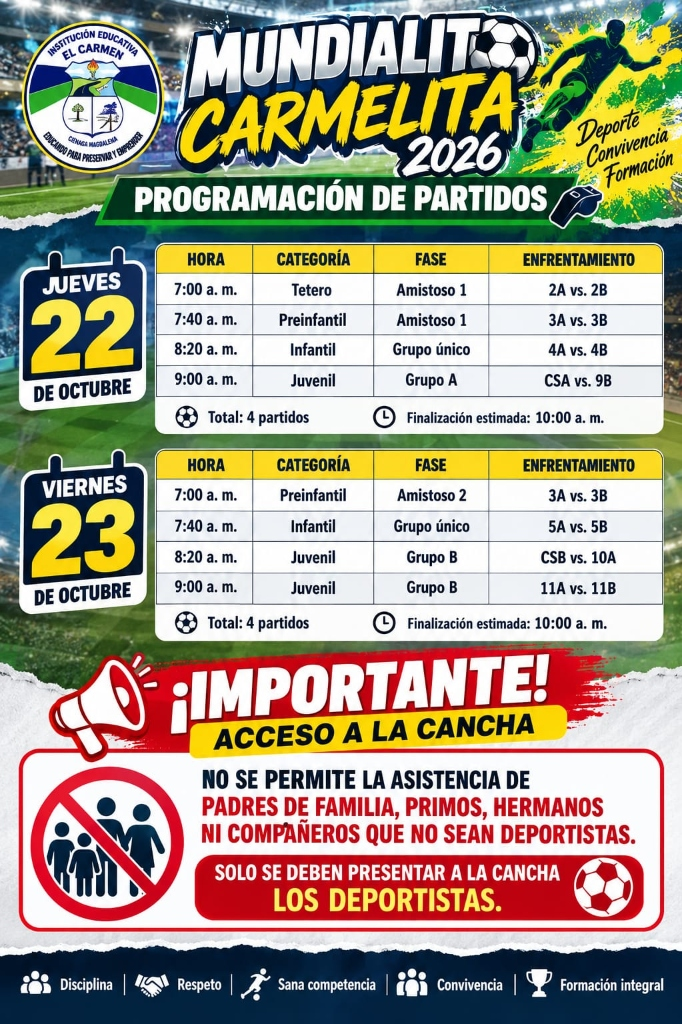
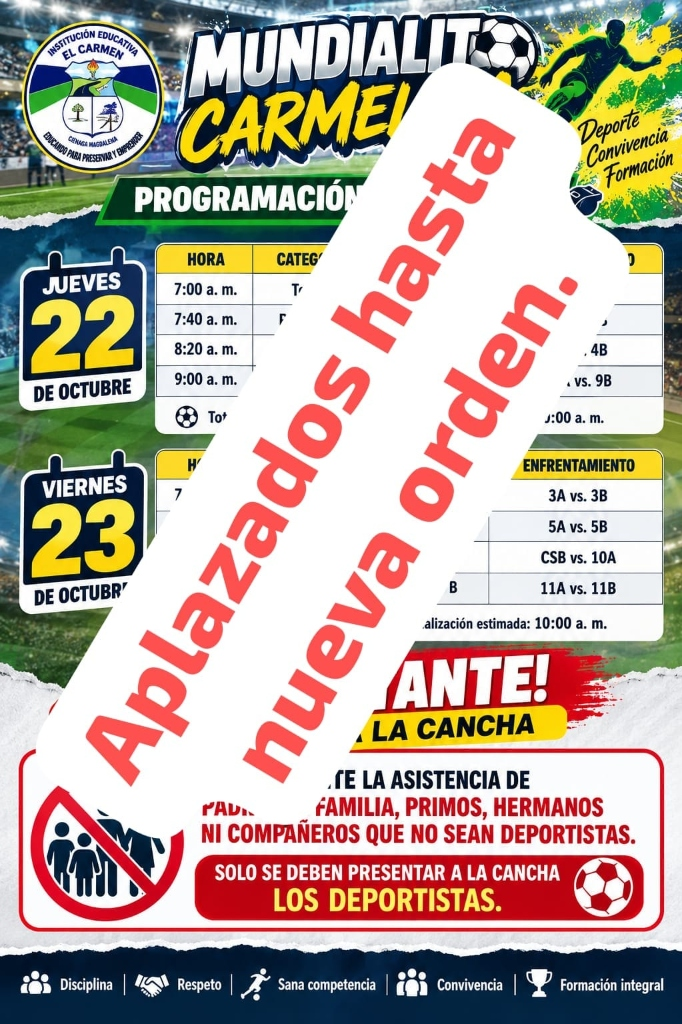
feat(sports): postpone mundialito matches notice in laboratory

Changed region(s): [[0.0616, 0.0625, 0.9238, 0.8438]]

diff --git a/laboratorio/index.html b/laboratorio/index.html
@@ -3312,122 +3312,93 @@
           </div>
         </div>
 
-        <!-- Tarjeta Oficial: Programación de Partidos y Acceso a la Cancha - Mundialito Carmelista 2026 -->
+        <!-- Tarjeta Oficial: Partidos Aplazados hasta Nueva Orden - Mundialito Carmelista 2026 -->
         <div class="notice-banner-card sports" id="aviso-partidos-mundialito-2026"
-          style="grid-column: 1 / -1; margin-top: 1.5rem; background: linear-gradient(135deg, #ffffff 0%, #f0fdf4 40%, #eff6ff 100%); border: 2px solid #0284c7; border-radius: var(--radius-lg); padding: clamp(1.5rem, 3vw, 2.5rem); box-shadow: var(--shadow-md);">
+          style="grid-column: 1 / -1; margin-top: 1.5rem; background: linear-gradient(135deg, #ffffff 0%, #fff1f2 40%, #fef2f2 100%); border: 2px solid #ef4444; border-radius: var(--radius-lg); padding: clamp(1.5rem, 3vw, 2.5rem); box-shadow: 0 10px 30px rgba(239, 68, 68, 0.15);">
           <div style="display: flex; align-items: center; justify-content: space-between; flex-wrap: wrap; gap: 0.75rem; margin-bottom: 0.75rem;">
-            <span class="notice-header-badge" style="background: rgba(2, 132, 199, 0.12); color: #0284c7; border: 1px solid #bae6fd; font-weight: 800; font-size: 0.82rem; padding: 0.35rem 0.85rem; border-radius: var(--radius-full); display: inline-flex; align-items: center; gap: 0.5rem;">
-              <span class="pulse-dot" style="background: #0284c7;"></span> ⚽ MUNDIALITO CARMELISTA 2026 · PROGRAMACIÓN OFICIAL DE PARTIDOS
+            <span class="notice-header-badge" style="background: rgba(239, 68, 68, 0.12); color: #b91c1c; border: 1px solid #fecaca; font-weight: 800; font-size: 0.82rem; padding: 0.35rem 0.85rem; border-radius: var(--radius-full); display: inline-flex; align-items: center; gap: 0.5rem;">
+              <span class="pulse-dot" style="background: #dc2626;"></span> 🔴 COMUNICADO EXTRAORDINARIO · PARTIDOS APLAZADOS HASTA NUEVA ORDEN
             </span>
-            <span style="font-size: 0.82rem; font-weight: 700; color: #b45309; background: #fef3c7; border: 1px solid #fde68a; padding: 0.3rem 0.8rem; border-radius: var(--radius-full);">
-              📅 Jueves 22 y Viernes 23 de Octubre · 7:00 a.m. a 10:00 a.m.
+            <span style="font-size: 0.82rem; font-weight: 800; color: #991b1b; background: #fee2e2; border: 1px solid #fca5a5; padding: 0.3rem 0.8rem; border-radius: var(--radius-full);">
+              ⚠ SUSPENDIDA FECHA DE JUEVES 22 Y VIERNES 23 · Reprogramación Pendiente
             </span>
           </div>
 
-          <h3 class="notice-title" style="font-size: clamp(1.4rem, 2.6vw, 2rem); color: var(--primary); margin-bottom: 0.6rem;">
-            Programación de Partidos &amp; Directriz de Acceso a la Cancha
+          <h3 class="notice-title" style="font-size: clamp(1.4rem, 2.6vw, 2rem); color: #991b1b; margin-bottom: 0.6rem;">
+            Mundialito Carmelista 2026: Partidos Aplazados hasta Nueva Orden
           </h3>
-          <p class="notice-lead" style="color: var(--text-muted); font-size: 1rem; line-height: 1.6; margin-bottom: 1.5rem;">
-            Conoce los enfrentamientos oficiales de las categorías <strong>Tetero, Preinfantil, Infantil y Juvenil</strong> para las jornadas del jueves y viernes. Recordamos a toda la comunidad educativa la directriz estricta de seguridad y sana convivencia para el ingreso al escenario deportivo.
+          <p class="notice-lead" style="color: #4b5563; font-size: 1rem; line-height: 1.6; margin-bottom: 1.5rem;">
+            Por disposición del comité organizador y las directivas institucionales de la <strong>IE El Carmen</strong>, la programación de partidos inicialmente prevista para este <strong>jueves 22 y viernes 23 de octubre</strong> queda <strong>aplazada hasta nueva orden</strong>. Oportunamente se notificará a través de los canales institucionales el nuevo cronograma oficial para el reinicio de los encuentros deportivos.
           </p>
 
           <div class="notice-grid" style="display: grid; grid-template-columns: repeat(auto-fit, minmax(320px, 1fr)); gap: 2rem; align-items: start;">
-            <!-- Columna Izquierda: Cartel Oficial del Aviso -->
+            <!-- Columna Izquierda: Cartel Oficial con la marca de Aplazados -->
             <div class="notice-flyer-col">
-              <div class="notice-flyer-frame" style="background: #0f172a; border-radius: var(--radius-md); overflow: hidden; box-shadow: 0 10px 25px rgba(2, 132, 199, 0.2); border: 2px solid #bae6fd;">
-                <a href="aviso_partidos_mundialito.jpg" target="_blank" title="Clic para ver afiche oficial en alta resolución">
-                  <img src="aviso_partidos_mundialito.jpg" alt="Aviso Oficial: Programación de Partidos Mundialito Carmelita 2026 y Acceso a la Cancha" loading="lazy" style="width: 100%; height: auto; display: block;">
+              <div class="notice-flyer-frame" style="background: #0f172a; border-radius: var(--radius-md); overflow: hidden; box-shadow: 0 10px 25px rgba(220, 38, 38, 0.25); border: 2px solid #f87171;">
+                <a href="aviso_partidos_mundialito.jpg" target="_blank" title="Clic para ver aviso oficial de aplazamiento en alta resolución">
+                  <img src="aviso_partidos_mundialito.jpg" alt="Aviso Oficial: Partidos del Mundialito Carmelita 2026 Aplazados hasta Nueva Orden" loading="lazy" style="width: 100%; height: auto; display: block;">
                 </a>
               </div>
               <div style="display: flex; gap: 0.6rem; flex-wrap: wrap; margin-top: 0.75rem;">
                 <a href="aviso_partidos_mundialito.jpg" target="_blank" class="btn-primary"
-                  style="flex: 1; min-width: 140px; font-size: 0.85rem; padding: 0.65rem 0.9rem; text-align: center; justify-content: center; gap: 0.4rem; background: var(--accent-blue);">
-                  🔍 Ver Imagen Completa
+                  style="flex: 1; min-width: 140px; font-size: 0.85rem; padding: 0.65rem 0.9rem; text-align: center; justify-content: center; gap: 0.4rem; background: #dc2626;">
+                  🔍 Ver Afiche con Aviso
                 </a>
-                <a href="aviso_partidos_mundialito.jpg" download="Programacion_Partidos_Mundialito_Carmelita_2026.jpg" class="btn-secondary"
-                  style="flex: 1; min-width: 140px; font-size: 0.85rem; padding: 0.65rem 0.9rem; text-align: center; justify-content: center; gap: 0.4rem; border-color: var(--accent-blue); color: #0284c7;">
-                  📥 Descargar Afiche
+                <a href="aviso_partidos_mundialito.jpg" download="Aviso_Aplazamiento_Partidos_Mundialito_2026.jpg" class="btn-secondary"
+                  style="flex: 1; min-width: 140px; font-size: 0.85rem; padding: 0.65rem 0.9rem; text-align: center; justify-content: center; gap: 0.4rem; border-color: #dc2626; color: #b91c1c;">
+                  📥 Descargar Aviso
                 </a>
               </div>
-              <p style="font-size: 0.78rem; color: var(--text-muted); text-align: center; margin-top: 0.5rem;">
-                📲 Descarga y comparte este comunicado oficial en los grupos de WhatsApp de acudientes y grados escolares.
+              <p style="font-size: 0.78rem; color: #6b7280; text-align: center; margin-top: 0.5rem;">
+                📲 Comparte de forma urgente este comunicado en los grupos de WhatsApp de acudientes, docentes y estudiantes.
               </p>
             </div>
 
-            <!-- Columna Derecha: Alerta de Acceso y Detalle de Partidos -->
+            <!-- Columna Derecha: Alertas y Estado de la Programación -->
             <div style="display: flex; flex-direction: column; gap: 1.25rem;">
-              <!-- Alerta Roja: Restricción de Acceso -->
+              <!-- Alerta Roja: Aplazamiento de Fechas -->
               <div style="background: #fef2f2; border: 2px solid #ef4444; border-radius: var(--radius-md); padding: 1.25rem; box-shadow: 0 4px 12px rgba(239, 68, 68, 0.12); position: relative;">
                 <div style="display: flex; align-items: center; gap: 0.5rem; margin-bottom: 0.5rem;">
-                  <span style="font-size: 1.5rem;">🚫</span>
+                  <span style="font-size: 1.5rem;">🚨</span>
                   <strong style="color: #991b1b; font-size: 1.05rem; text-transform: uppercase; letter-spacing: 0.04em;">
-                    ¡Directriz Obligatoria! Acceso a la Cancha
+                    Atención: Fechas en Espera de Reprogramación
                   </strong>
                 </div>
                 <p style="color: #7f1d1d; font-size: 0.94rem; line-height: 1.5; margin-bottom: 0.5rem;">
-                  <strong>NO SE PERMITE LA ASISTENCIA DE:</strong> padres de familia, primos, hermanos ni compañeros que no sean deportistas.
+                  Los partidos de las categorías <strong>Tetero, Preinfantil, Infantil y Juvenil</strong> no se jugarán en los horarios del 22 y 23 de octubre. Los deportistas <strong>NO deben acudir a la cancha</strong> hasta que se emita la comunicación oficial con las nuevas fechas.
                 </p>
                 <div style="background: #dc2626; color: #ffffff; padding: 0.6rem 0.9rem; border-radius: var(--radius-sm); font-size: 0.92rem; font-weight: 800; text-align: center; letter-spacing: 0.03em;">
-                  ⚽ SOLO SE DEBEN PRESENTAR A LA CANCHA LOS DEPORTISTAS CONVOCADOS.
+                  ⏳ JORNADA APLAZADA · ESPERAR CONFIRMACIÓN INSTITUCIONAL
                 </div>
               </div>
 
-              <!-- Bloque: Partidos Jueves 22 de Octubre -->
-              <div style="background: #ffffff; border: 1px solid var(--border-subtle); border-left: 4px solid #f59e0b; border-radius: var(--radius-sm); padding: 1rem 1.25rem;">
-                <div style="display: flex; justify-content: space-between; align-items: center; margin-bottom: 0.6rem; flex-wrap: wrap; gap: 0.4rem;">
-                  <h4 style="color: var(--primary); font-size: 1.02rem; margin: 0; display: flex; align-items: center; gap: 0.4rem;">
-                    <span>📅</span> Jueves 22 de Octubre
-                  </h4>
-                  <span style="font-size: 0.75rem; font-weight: 800; background: #fef3c7; color: #92400e; padding: 0.2rem 0.55rem; border-radius: var(--radius-full);">
-                    4 Partidos · Finaliza 10:00 a.m.
-                  </span>
+              <!-- Recordatorio Directriz de Ingreso a la Cancha (Cuando se Reanude) -->
+              <div style="background: #fffbeb; border: 1.5px solid #f59e0b; border-radius: var(--radius-md); padding: 1rem 1.25rem;">
+                <div style="display: flex; align-items: center; gap: 0.4rem; margin-bottom: 0.35rem;">
+                  <span style="font-size: 1.15rem;">🚫</span>
+                  <strong style="color: #92400e; font-size: 0.95rem;">Directriz Permanente de Ingreso al Escenario:</strong>
                 </div>
-                <div style="display: grid; grid-template-columns: repeat(auto-fit, minmax(200px, 1fr)); gap: 0.5rem; font-size: 0.88rem;">
-                  <div style="background: #f8fafc; padding: 0.5rem 0.7rem; border-radius: 6px; border: 1px solid #e2e8f0;">
-                    <strong style="color: #0284c7;">7:00 a. m.</strong> · Tetero (Amistoso 1)<br>
-                    <span style="font-weight: 700; color: #0f172a;">2A vs. 2B</span>
-                  </div>
-                  <div style="background: #f8fafc; padding: 0.5rem 0.7rem; border-radius: 6px; border: 1px solid #e2e8f0;">
-                    <strong style="color: #0284c7;">7:40 a. m.</strong> · Preinfantil (Amistoso 1)<br>
-                    <span style="font-weight: 700; color: #0f172a;">3A vs. 3B</span>
-                  </div>
-                  <div style="background: #f8fafc; padding: 0.5rem 0.7rem; border-radius: 6px; border: 1px solid #e2e8f0;">
-                    <strong style="color: #0284c7;">8:20 a. m.</strong> · Infantil (Grupo único)<br>
-                    <span style="font-weight: 700; color: #0f172a;">4A vs. 4B</span>
-                  </div>
-                  <div style="background: #f8fafc; padding: 0.5rem 0.7rem; border-radius: 6px; border: 1px solid #e2e8f0;">
-                    <strong style="color: #0284c7;">9:00 a. m.</strong> · Juvenil (Grupo A)<br>
-                    <span style="font-weight: 700; color: #0f172a;">CSA vs. 9B</span>
-                  </div>
-                </div>
+                <p style="color: #78350f; font-size: 0.88rem; line-height: 1.45; margin: 0;">
+                  Para las futuras fechas programadas, <strong>NO se permite la asistencia de público particular, padres de familia, primos o acompañantes</strong>. Solo ingresarán a la cancha los deportistas convocados por sus delegaciones.
+                </p>
               </div>
 
-              <!-- Bloque: Partidos Viernes 23 de Octubre -->
-              <div style="background: #ffffff; border: 1px solid var(--border-subtle); border-left: 4px solid #10b981; border-radius: var(--radius-sm); padding: 1rem 1.25rem;">
+              <!-- Fixture Previo (Marcado como Aplazado) -->
+              <div style="background: #ffffff; border: 1px dashed #cbd5e1; border-radius: var(--radius-sm); padding: 1rem 1.25rem; opacity: 0.85;">
                 <div style="display: flex; justify-content: space-between; align-items: center; margin-bottom: 0.6rem; flex-wrap: wrap; gap: 0.4rem;">
-                  <h4 style="color: var(--primary); font-size: 1.02rem; margin: 0; display: flex; align-items: center; gap: 0.4rem;">
-                    <span>📅</span> Viernes 23 de Octubre
+                  <h4 style="color: #64748b; font-size: 0.95rem; margin: 0; display: flex; align-items: center; gap: 0.4rem;">
+                    <span>📋</span> Fixture Afectado (En Espera de Nueva Fecha)
                   </h4>
-                  <span style="font-size: 0.75rem; font-weight: 800; background: #dcfce7; color: #166534; padding: 0.2rem 0.55rem; border-radius: var(--radius-full);">
-                    4 Partidos · Finaliza 10:00 a.m.
+                  <span style="font-size: 0.72rem; font-weight: 800; background: #fee2e2; color: #991b1b; padding: 0.2rem 0.55rem; border-radius: var(--radius-full);">
+                    ⛔ PENDIENTE REPROGRAMACIÓN
                   </span>
                 </div>
-                <div style="display: grid; grid-template-columns: repeat(auto-fit, minmax(200px, 1fr)); gap: 0.5rem; font-size: 0.88rem;">
-                  <div style="background: #f8fafc; padding: 0.5rem 0.7rem; border-radius: 6px; border: 1px solid #e2e8f0;">
-                    <strong style="color: #059669;">7:00 a. m.</strong> · Preinfantil (Amistoso 2)<br>
-                    <span style="font-weight: 700; color: #0f172a;">3A vs. 3B</span>
+                <div style="display: grid; grid-template-columns: repeat(auto-fit, minmax(180px, 1fr)); gap: 0.5rem; font-size: 0.82rem; color: #64748b;">
+                  <div style="background: #f8fafc; padding: 0.45rem 0.65rem; border-radius: 6px; border: 1px solid #e2e8f0;">
+                    <strong>Jueves 22:</strong> 2A vs. 2B (Tetero) · 3A vs. 3B (Preinfantil) · 4A vs. 4B (Infantil) · CSA vs. 9B (Juvenil)
                   </div>
-                  <div style="background: #f8fafc; padding: 0.5rem 0.7rem; border-radius: 6px; border: 1px solid #e2e8f0;">
-                    <strong style="color: #059669;">7:40 a. m.</strong> · Infantil (Grupo único)<br>
-                    <span style="font-weight: 700; color: #0f172a;">5A vs. 5B</span>
-                  </div>
-                  <div style="background: #f8fafc; padding: 0.5rem 0.7rem; border-radius: 6px; border: 1px solid #e2e8f0;">
-                    <strong style="color: #059669;">8:20 a. m.</strong> · Juvenil (Grupo B)<br>
-                    <span style="font-weight: 700; color: #0f172a;">CSB vs. 10A</span>
-                  </div>
-                  <div style="background: #f8fafc; padding: 0.5rem 0.7rem; border-radius: 6px; border: 1px solid #e2e8f0;">
-                    <strong style="color: #059669;">9:00 a. m.</strong> · Juvenil (Grupo B)<br>
-                    <span style="font-weight: 700; color: #0f172a;">11A vs. 11B</span>
+                  <div style="background: #f8fafc; padding: 0.45rem 0.65rem; border-radius: 6px; border: 1px solid #e2e8f0;">
+                    <strong>Viernes 23:</strong> 3A vs. 3B (Preinfantil) · 5A vs. 5B (Infantil) · CSB vs. 10A (Juvenil) · 11A vs. 11B (Juvenil)
                   </div>
                 </div>
               </div>
@@ -3438,7 +3409,7 @@
                 <span>🤝 Respeto</span>
                 <span>🏃 Sana Competencia</span>
                 <span>🕊 Convivencia</span>
-                <span>🏆 Formación Integral</span>
+                <span>🎓 Formación Integral</span>
               </div>
             </div>
           </div>

diff --git a/laboratorio/dia3.html b/laboratorio/dia3.html
@@ -1271,17 +1271,17 @@
           <span style="color: #78350f; font-size: 0.9rem;">El equipo de comunicaciones sigue procesando nuevas tomas y transmisiones del Mundialito que se integrarán aquí en tiempo real.</span>
         </div>
         
-        <div style="display: flex; align-items: center; justify-content: space-between; flex-wrap: wrap; gap: 1rem; background: linear-gradient(135deg, #eff6ff 0%, #dbeafe 100%); border: 1.5px solid #93c5fd; border-radius: var(--radius-md); padding: 1.25rem 1.5rem;">
+        <div style="display: flex; align-items: center; justify-content: space-between; flex-wrap: wrap; gap: 1rem; background: linear-gradient(135deg, #fef2f2 0%, #fee2e2 100%); border: 1.5px solid #f87171; border-radius: var(--radius-md); padding: 1.25rem 1.5rem;">
           <div>
-            <strong style="color: #1e40af; font-size: 1rem; display: block; margin-bottom: 0.2rem;">
-              ⚽ ¡Atención Deportistas! Programación Oficial de Partidos
+            <strong style="color: #991b1b; font-size: 1rem; display: block; margin-bottom: 0.2rem;">
+              🚨 ¡Última Hora! Partidos del Mundialito Aplazados hasta Nueva Orden
             </strong>
-            <span style="color: #1e3a8a; font-size: 0.88rem;">
-              Consulta el fixture del Jueves 22 y Viernes 23 de Octubre y la directriz obligatoria de acceso a la cancha.
+            <span style="color: #7f1d1d; font-size: 0.88rem;">
+              La jornada deportiva del jueves 22 y viernes 23 queda temporalmente suspendida por disposición institucional. Consulta el comunicado oficial.
             </span>
           </div>
-          <a href="index.html#aviso-partidos-mundialito-2026" class="btn-primary" style="background: #0284c7; padding: 0.6rem 1.1rem; font-size: 0.85rem; text-decoration: none; white-space: nowrap;">
-            Ver Programación &amp; Aviso ↗
+          <a href="index.html#aviso-partidos-mundialito-2026" class="btn-primary" style="background: #dc2626; padding: 0.6rem 1.1rem; font-size: 0.85rem; text-decoration: none; white-space: nowrap;">
+            Ver Comunicado Oficial ↗
           </a>
         </div>
       </div>

diff --git a/CONTINUAR_EN_CODEX.md b/CONTINUAR_EN_CODEX.md
@@ -1,8 +1,9 @@
 # Continuar el proyecto IE El Carmen
 
-**Actualizado el 21 de octubre de 2026, 16:55 (Colombia).**
-- **Semana Cultural 2026 - Día 3 (Mundialito & Desfile):** 100% **promovido y verificado en producción** (`https://semanacultural.elcarmencienaga.edu.co/dia3.html`) con 21 fotos y 12 videos. Incorporada y verificada en producción (`https://semanacultural.elcarmencienaga.edu.co/#aviso-partidos-mundialito-2026`) la **tarjeta oficial de programación de partidos del Mundialito** (Jueves 22 y Viernes 23 de octubre) con afiche oficial de alta resolución, descarga directa, desglose de encuentros por categorías (Tetero, Preinfantil, Infantil, Juvenil) y alerta destacada de la **directriz obligatoria de acceso restringido a la cancha (exclusivo para deportistas)**. Enlazado también desde `dia3.html`.
-- **Semana Cultural 2026 - Día 4 (Foro Ambiental):** 100% **promovido y verificado en producción** (`https://semanacultural.elcarmencienaga.edu.co/`) tras aprobación de Leo. Incorpora afiche vertical y versión cuadrada para WhatsApp/redes, botón de descarga directa y desglose de los 3 ejes temáticos (Ponencias estudiantiles, Exposición de especies de manglares y Mesas de Diálogo).
+**Actualizado el 21 de octubre de 2026, 21:20 (Colombia).**
+- **ÚLTIMA HORA (Mundialito Carmelista 2026):** Partidos de jueves 22 y viernes 23 de octubre **aplazados hasta nueva orden**. Actualizado en staging (`lab.elcarmencienaga.edu.co`) el afiche oficial con el sello de aplazamiento (`aviso_partidos_mundialito.jpg`), la tarjeta `#aviso-partidos-mundialito-2026` en `index.html` y el banner de alerta en `dia3.html`. Verificado con HTTP 200 en laboratorio. Pendiente visto bueno de Leo para paso a producción.
+- **Semana Cultural 2026 - Día 3 (Mundialito & Desfile):** 100% **promovido y verificado en producción** (`https://semanacultural.elcarmencienaga.edu.co/dia3.html`) con 21 fotos y 12 videos.
+- **Semana Cultural 2026 - Día 4 (Foro Ambiental):** 100% **promovido y verificado en producción** (`https://semanacultural.elcarmencienaga.edu.co/`) tras aprobación de Leo.
 - **Semana Cultural 2026 - Día 2:** 100% promovido y verificado en producción con 34 fotos y enlaces al Día 3.
 - **Regla de oro de flujo:** Mantener el flujo staging-first: toda novedad se construye, despliega con `hosting_deploy` y valida en `lab.elcarmencienaga.edu.co` antes de promover a `semanacultural.elcarmencienaga.edu.co`.
 - **Google Workspace:** Pendiente confirmar la aprobación definitiva de Education Fundamentals gratuito (12 días de trial restantes).
